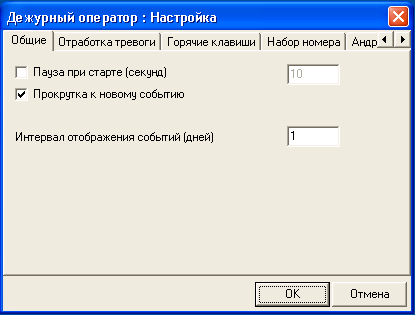
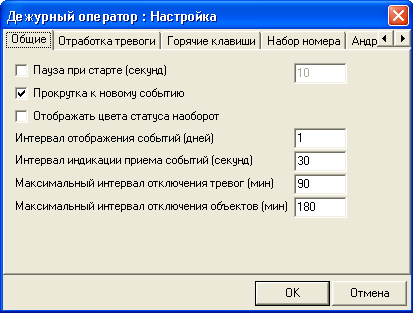
Настройки в модуле "Дежурный оператор"

diff --git a/russian/09-duty-operator.md b/russian/09-duty-operator.md
@@ -2,7 +2,11 @@
 
 Модуль «Дежурный оператор» предназначен для контроля оперативного состояния объектов, просмотра поступающих событий и регистрации действий оператора по отработке тревог.
 
-Для того, чтобы запустить модуль «Дежурный оператор», пользователь должен обладать разрешением «Входить в программу» для этого модуля.
+Перед тем как начать работу в модуле «Дежурный оператор», необходимо удостовериться в том, что запущен модуль «Менеджер событий». Если в процессе работы модуля «Дежурный оператор» возникает ошибка соединения с модулем «Менеджер событий», появляется окно, сообщающее о данной ошибке.
+
+![Сообщение об ошибке соединения с модулем «Менеджер событий»][id-09-00]
+
+Для того чтобы запустить модуль «Дежурный оператор», пользователь должен обладать разрешением «Входить в программу» для этого модуля.
 
 Так же, как остальные модули «Центра охраны», модуль «Дежурный оператор» загружает только те объекты, использование которых разрешено на том компьютере, на котором он запущен. Задать интервалы номеров объектов, которые могут использоваться на конкретном сетевом рабочем месте можно в модуле «Менеджер персонала».
 
@@ -297,7 +301,15 @@
 
 Если значение для параметра «Прокрутка к новому событию» установлено, то при получении с объектов новых событий, список событий в окне «Все события» будет автоматически прокручиваться так, чтобы новое событие было видимым.
 
+Параметр «Отображать цвета статуса наоборот» позволяет инвертировать цвета пиктограмм, отображающие состояние охраняемых объектов. По умолчанию объект «Центра охраны», поставленный на охрану, отображается пиктограммой синего цвета, а объект, снятый с охраны, - зеленого. Если до работы с «Центром охраны» оператор использовал программное обеспечение для охраны и мониторинга объектов с настройками, обратными предложенным, он может применить данный параметр. В этом случае пиктограммы объектов будут отображаться цветами, обратными первоначальным: объект, поставленный на охрану, будет иметь зеленый цвет иконки, а объект, снятый с охраны, - синий. Для того чтобы изменение параметра «Отображать цвета статуса наоборот» вступило в силу, модуль «Дежурный оператор» необходимо перезагрузить.
+
 Регулировать общее количество событий, отображаемых в модуле «Дежурный оператор», можно с помощью параметра «Интервал отображения событий». Необходимо помнить, что чем больший интервал отображения событий задан, тем дольше будет выполняться инициализация модуля «Дежурный оператор» и тем больше будут требования этого модуля к ресурсам компьютера.
+
+С помощью параметра «Интервал индикации приема событий» оператор может осуществлять постоянный мониторинг работы программного обеспечения, что необходимо для своевременного выявления его неисправности. Данный параметр обеспечивает надежный контроль работоспособности «Центра охраны», в том числе модуля «Дежурный оператор», по звуковой индикации приема событий. Для того чтобы оператор был уверен в стабильном функционировании системы, прием событий, не подлежащих фильтрации, сопровождается звуковым сигналом. Если в течение заданного параметром интервала времени приема неотфильтрованных событий нет, звуковым сигналом сопровождается прием отфильтрованного события. Данное событие отображается в строке последнего принятого события, однако информации о нем нет ни в общем списке принятых событий, ни в списке тревожных событий, ни в списке событий по объекту (для отображения в списке событий по объекту отфильтрованного события должен быть включен режим «Показывать дубли»). Кроме того, принятое отфильтрованное событие не отображается ни в карточке объекта, ни в окне отработки тревоги. Чтобы разрешить индикацию, необходимо задать для параметра «Интервал индикации приема событий» значение больше нуля. При нулевом значении данного параметра индикация приема событий отключается. По умолчанию интервал индикации равен 30 секундам.
+
+Максимальный срок отключения событий задается в минутах с помощью параметра «Максимальный интервал отключения тревог». По умолчанию время отключения событий не должно превышать 90 минут. 
+
+Максимальный срок отключения объектов «Центра охраны» задается в минутах с помощью параметра «Максимальный интервал отключения объектов». По умолчанию время отключения объектов не должно превышать 180 минут.
 
 ### Отработка тревоги
 
@@ -307,7 +319,7 @@
 
 В ситуации, когда в модуле «Дежурный оператор» есть тревога, для которой слишком долго не регистрируется никаких действий, может пригодиться параметр «Повторять звук тревоги с интервалом». Если для этого параметра задано ненулевое значение, то при отсутствии действий по тревоги в течении заданного времени, «Дежурный оператор» поведет себя так, словно эта тревога только что получена: заново воспроизведет звук тревоги и откроет окно отработки тревоги, если это разрешено параметром «Автоматическое открытие» для окна отработки тревоги.
 
-Параметры «Автоматическое закрытие» и «Автоматический переход к следующей тревоге» определяют поведение окна отработки тревоги, в тот момент, когда отработка текущей тревоги завершена. Если задано значение первого параметра, то окно отработки тревоги будет закрыто. Если задано значение для второго параметра, то в окно отработки тревоги будет загружена следующая по времени получения тревога. Если заданы значения для обоих параметров, то сначала будет выполнена попытка загрузить следующую тревогу, а если ее нет, то окно отработки тревоги будет закрыто.
+Отмеченный галкой пункт «Автоматическое открытие» раздела «Окно Отработка тревоги» обеспечивает автоматическое открытие окна отработки тревоги при возникновении тревоги. Параметры «Автоматическое закрытие» и «Автоматический переход к следующей тревоге» определяют поведение окна отработки тревоги, в тот момент, когда отработка текущей тревоги завершена. Если задано значение первого параметра, то окно отработки тревоги будет закрыто. Если задано значение для второго параметра, то в окно отработки тревоги будет загружена следующая по времени получения тревога. Если заданы значения для обоих параметров, то сначала будет выполнена попытка загрузить следующую тревогу, а если ее нет, то окно отработки тревоги будет закрыто.
 
 ### Горячие клавиши
 
@@ -339,6 +351,7 @@
 
 На вкладке «Андромеда Персона» можно включить интеграцию модуля «Дежурный оператор» с программным обеспечением «Андромеда Персона», а также разрешить автоматическое отображение тревожных объектов и состояние групп быстрого реагирования в «Персоне».
 
+[id-09-00]: img/ShiftOp-Main-00.png "Сообщение об ошибке соединения с модулем «Менеджер событий»"
 [id-09-01]: img/ShiftOp-Main-01.png "Главное окно модуля"
 [id-09-02-01]: img/ShiftOp-Main-State-01.png "Окно «Состояние объектов», вкладка «Все объекты»"
 [id-09-02-02]: img/ShiftOp-Main-State-02.png "Окно «Состояние объектов», контекстное меню"
